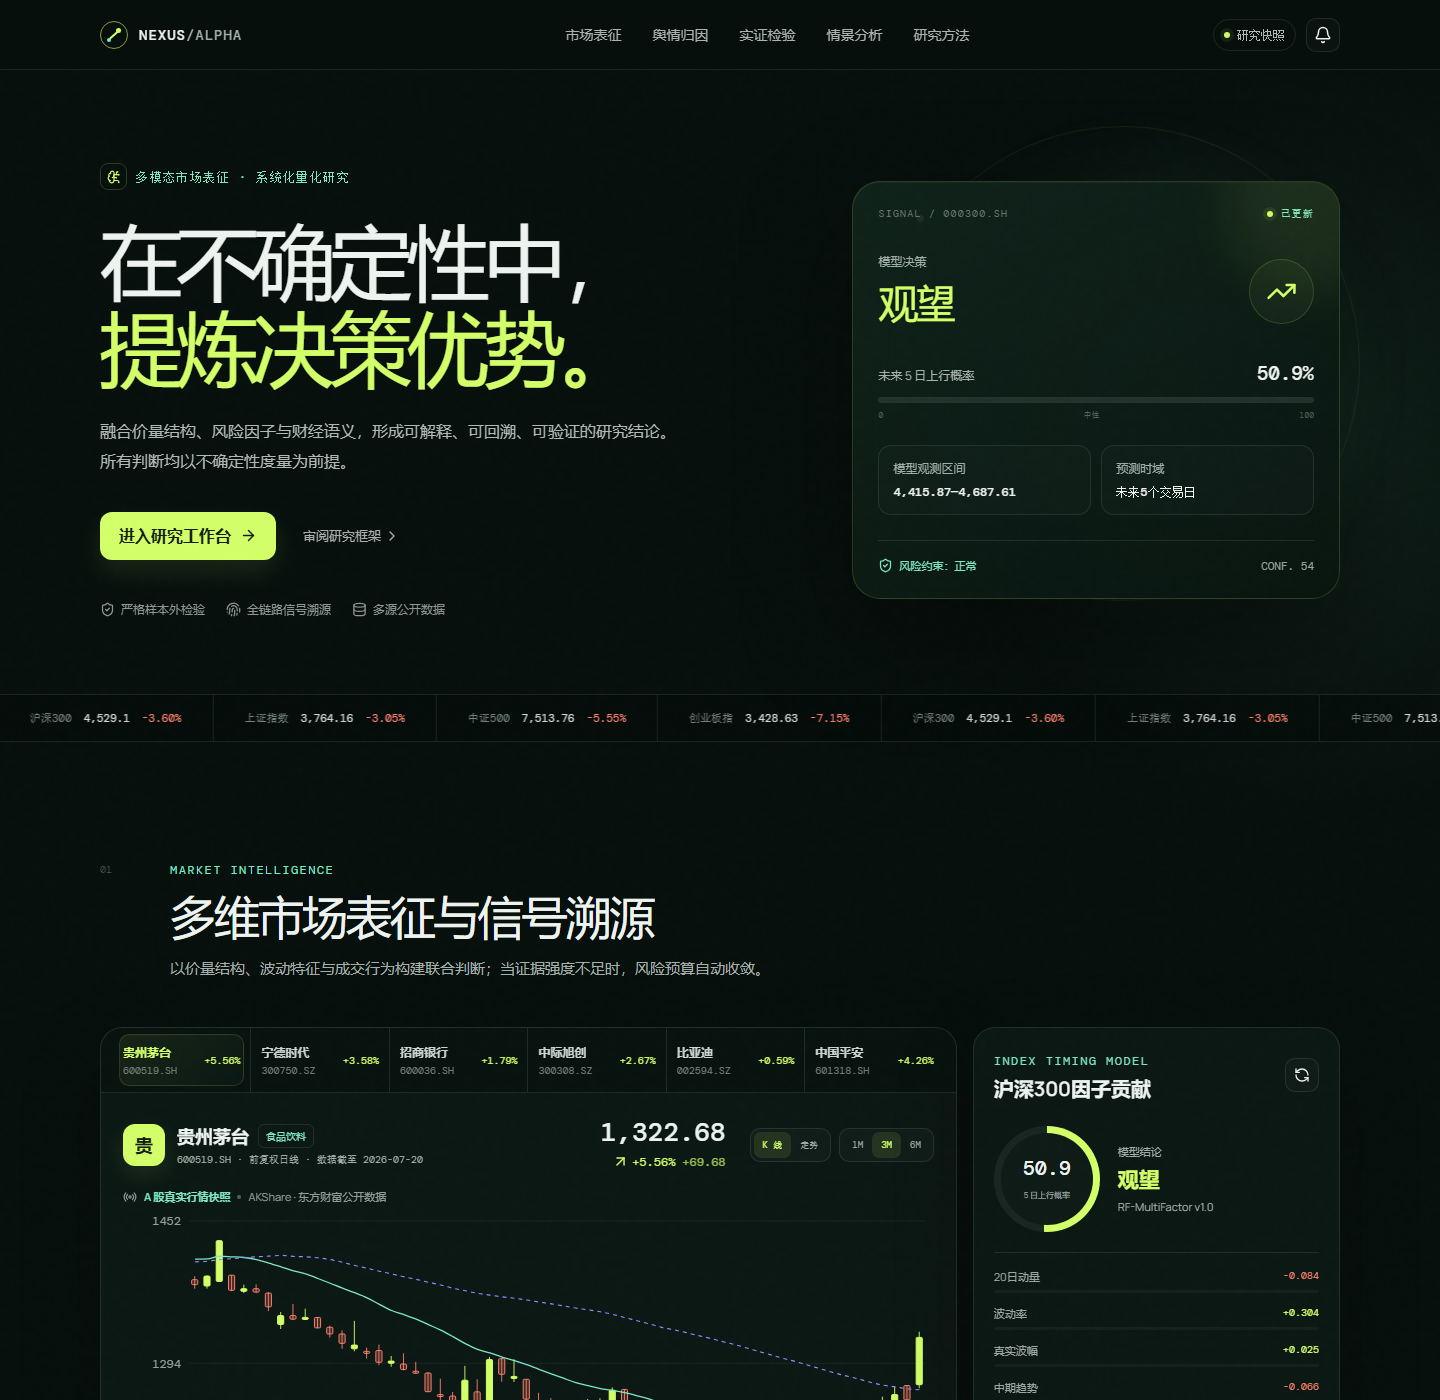
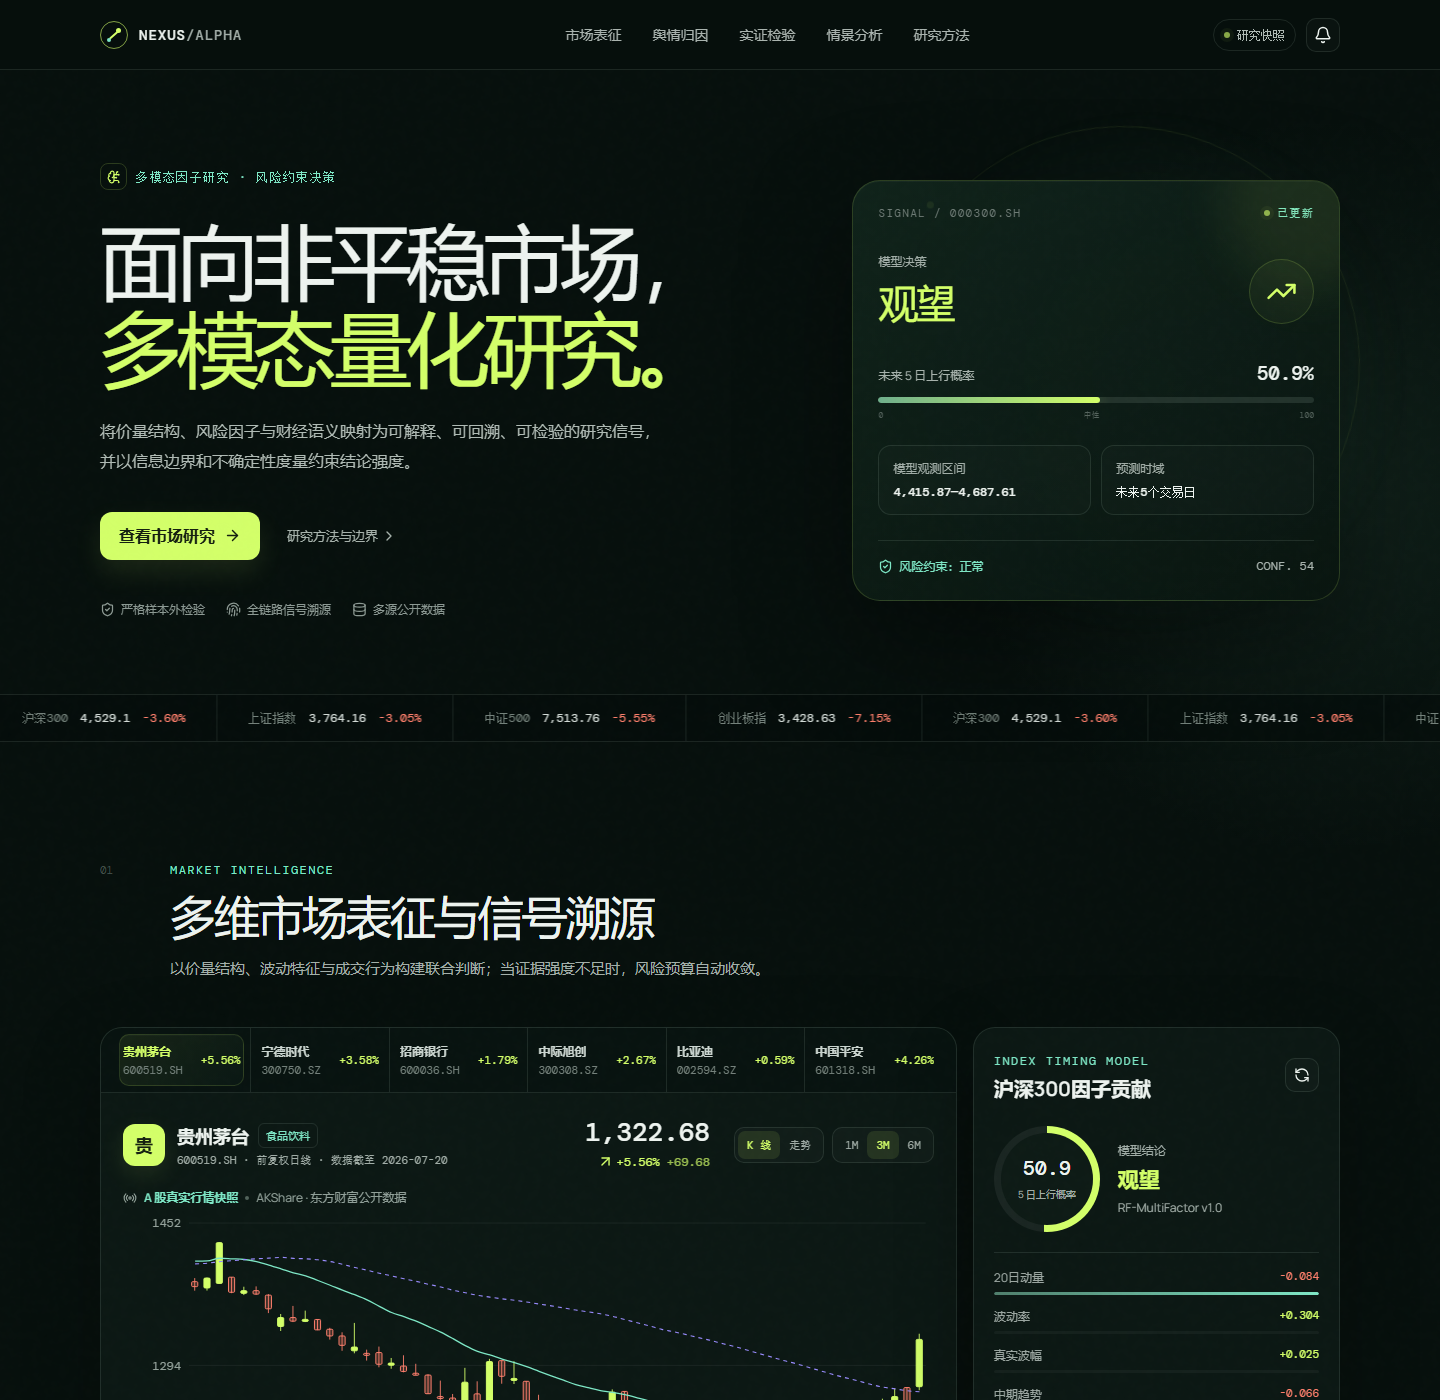
refactor: improve readability and research copy

diff --git a/src/styles.css b/src/styles.css
@@ -269,10 +269,10 @@ main { position: relative; z-index: 2; }
 .factor-item em { font-family: var(--mono); font-style: normal; font-size: 9px; }
 .factor-bar { height: 3px; border-radius: 9px; background: rgba(255,255,255,.04); margin-top: 6px; overflow: hidden; }
 .factor-bar i { height: 100%; display: block; background: linear-gradient(90deg, #4f7f6c, var(--mint)); border-radius: inherit; }
-.audit-note { display: flex; align-items: flex-start; gap: 9px; margin-top: 18px; padding: 11px; border-radius: 11px; color: #839089; background: rgba(126,231,198,.04); border: 1px solid rgba(126,231,198,.08); }
+.audit-note { display: flex; align-items: flex-start; gap: 12px; margin-top: 20px; padding: 15px 16px; border-radius: 14px; color: #98a59e; background: rgba(126,231,198,.04); border: 1px solid rgba(126,231,198,.1); }
 .audit-note svg { color: var(--mint); flex: 0 0 auto; margin-top: 1px; }
-.audit-note p { font-size: 9px; line-height: 1.55; margin: 0; }
-.audit-note strong { color: #aab5af; display: block; }
+.audit-note p { font-size: 9px; line-height: 1.7; margin: 0; }
+.audit-note strong { color: #c0cbc5; display: block; margin-bottom: 3px; }
 
 .metrics-grid { display: grid; grid-template-columns: repeat(4, 1fr); gap: 12px; margin-top: 12px; }
 .metric-card { position: relative; min-height: 142px; padding: 17px; border: 1px solid var(--line); border-radius: 17px; background: rgba(13,26,21,.75); overflow: hidden; }
@@ -429,28 +429,44 @@ footer { border-top: 1px solid var(--line); padding: 45px max(28px, calc((100vw 
 .eyebrow, .section-kicker, .mini-kicker { font-size: 12px; }
 .hero-copy > p { color: #b0bbb5; font-size: 16px; }
 .trust-row { color: #8d9a94; font-size: 12px; }
-.signal-topline, .pulse-label { font-size: 10px; }
-.signal-footer { color: #99a69f; font-size: 11px; }
-.ticker-item { font-size: 11px; }
+.signal-topline, .pulse-label { font-size: 11px; }
+.signal-footer { color: #aab5af; font-size: 12px; }
+.ticker-item { font-size: 12px; }
+.section-number { font-size: 11px; }
 .section-heading p { color: #a4b0aa; font-size: 15px; }
 .asset-line strong { font-size: 15px; }
-.asset-line small, .chart-legend, .chart-caption { font-size: 11px; }
+.asset-line small, .chart-legend, .chart-caption { font-size: 12px; }
+.stock-tabs button small, .stock-tabs button em, .stock-name-line span, .stock-identity p { font-size: 11px; }
+.real-data-banner, .stock-stats span { font-size: 12px; }
+.year-range small, .score-ring small { font-size: 10px; }
+.range-tabs button, .view-toggle button, .chart-tooltip > span, .chart-tooltip > div { font-size: 11px; }
 .panel-title-row h3, .sentiment-gauge h3 { font-size: 20px; }
-.factor-score > div:last-child span, .factor-score > div:last-child small, .factor-item > div:first-child { font-size: 11px; }
-.factor-item em, .audit-note p { font-size: 10px; }
+.factor-score > div:last-child span, .factor-score > div:last-child small, .factor-item > div:first-child { font-size: 12px; }
+.factor-item em { font-size: 11px; }
+.audit-note p { font-size: 13px; }
+.audit-note strong { font-size: 13px; }
 .metric-card > span { font-size: 12px; }
 .metric-card > strong { font-size: 23px; }
-.metric-card > small, .risk-gate small, .source-note { font-size: 10px; }
-.sentiment-dist span, .tag-row span { font-size: 9px; }
-.news-meta { font-size: 10px; }
-.news-item strong { color: #dce4e0; font-size: 13px; }
-.news-detail p, .news-detail > div, .news-detail a { font-size: 11px; }
-.backtest-head p, .result-row > span, .result-row > small, .honesty-bar p { font-size: 11px; }
+.metric-card > small, .risk-gate small, .source-note { font-size: 11px; }
+.risk-gate strong { font-size: 12px; }
+.sentiment-dist span, .tag-row span { font-size: 10px; }
+.news-meta, .score-badge { font-size: 11px; }
+.news-item strong { color: #dce4e0; font-size: 14px; }
+.news-detail p, .news-detail > div, .news-detail a { font-size: 12px; }
+.backtest-head p, .result-row > span, .result-row > small, .honesty-bar p { font-size: 12px; }
 .scenario-buttons button, .cost-control > div:first-child, .scenario-summary > p { font-size: 12px; }
-.scenario-summary > span { font-size: 10px; }
-.scenario-values small, .method-tags span, .method-bottom p, .secondary-button { font-size: 10px; }
-.footer-main > p, .footer-links a { font-size: 11px; }
-.disclaimer p, .disclaimer span { font-size: 10px; }
+.scenario-summary > span { font-size: 11px; }
+.scenario-values small, .method-tags span, .method-bottom p, .secondary-button { font-size: 11px; }
+.range-label { font-size: 10px !important; }
+.reality-tags span { font-size: 12px; }
+.reality-tags i, .discipline-label small { font-size: 10px; }
+.discipline-code, .discipline-checks .check-index { font-size: 11px; }
+.discipline-label strong { font-size: 14px; }
+.discipline-checks strong { font-size: 13px; }
+.discipline-checks p { color: #929f98; font-size: 12px; }
+.discipline-guard, .discipline-guard strong { font-size: 11px; }
+.footer-main > p, .footer-links a { font-size: 12px; }
+.disclaimer p, .disclaimer span { font-size: 11px; }
 
 @keyframes pulse { 0%,100% { opacity: 1; } 50% { opacity: .35; } }
 @keyframes orbit { to { transform: rotate(360deg); } }
@@ -526,7 +542,7 @@ footer { border-top: 1px solid var(--line); padding: 45px max(28px, calc((100vw 
   .hero, .section { width: calc(100% - 28px); }
   .hero { min-height: 0; padding-top: 55px; }
   .hero h1 { font-size: 48px; }
-  .hero-copy > p { font-size: 13px; }
+  .hero-copy > p { font-size: 14px; }
   .desktop-only { display: none; }
   .hero-actions { align-items: flex-start; flex-direction: column; gap: 16px; }
   .trust-row { flex-wrap: wrap; gap: 10px 16px; }
@@ -536,7 +552,7 @@ footer { border-top: 1px solid var(--line); padding: 45px max(28px, calc((100vw 
   .signal-stats { grid-template-columns: 1fr; }
   .section-heading { grid-template-columns: 32px 1fr; gap: 8px; }
   .section-heading h2 { font-size: 31px; }
-  .section-heading p { font-size: 11px; }
+  .section-heading p { font-size: 13px; }
   .stock-workbench { padding-inline: 14px; }
   .stock-tabs { grid-template-columns: repeat(2, 1fr); margin-inline: -14px; padding-inline: 7px; }
   .stock-tabs button { min-height: 58px; }
@@ -566,7 +582,7 @@ footer { border-top: 1px solid var(--line); padding: 45px max(28px, calc((100vw 
   .sentiment-scale { display: flex; }
   .news-panel { padding: 18px; }
   .news-item { padding-inline: 2px; }
-  .news-item strong { font-size: 12px; }
+  .news-item strong { font-size: 13px; }
   .news-detail p { margin-right: 0; padding-bottom: 20px; }
   .backtest-card { padding: 17px; }
   .backtest-head { align-items: flex-start; flex-direction: column; gap: 14px; }

diff --git a/src/App.tsx b/src/App.tsx
@@ -130,17 +130,17 @@ function Hero() {
       <div className="hero-orbit orbit-two" />
       <div className="hero-copy">
         <motion.div className="eyebrow" initial={false} animate={{ opacity: 1, y: 0 }}>
-          <span><BrainCircuit size={14} /></span> 多模态市场表征 · 系统化量化研究
+          <span><BrainCircuit size={14} /></span> 多模态因子研究 · 风险约束决策
         </motion.div>
         <motion.h1 initial={false} animate={{ opacity: 1, y: 0 }} transition={{ delay: 0.08 }}>
-          在不确定性中，<br /><span>提炼决策优势。</span>
+          面向非平稳市场，<br /><span>多模态量化研究。</span>
         </motion.h1>
         <motion.p initial={false} animate={{ opacity: 1, y: 0 }} transition={{ delay: 0.16 }}>
-          融合价量结构、风险因子与财经语义，形成可解释、可回溯、可验证的研究结论。<br className="desktop-only" />所有判断均以不确定性度量为前提。
+          将价量结构、风险因子与财经语义映射为可解释、可回溯、可检验的研究信号，<br className="desktop-only" />并以信息边界和不确定性度量约束结论强度。
         </motion.p>
         <motion.div className="hero-actions" initial={false} animate={{ opacity: 1 }} transition={{ delay: 0.25 }}>
-          <a className="primary-button" href="#market">进入研究工作台 <ArrowRight size={17} /></a>
-          <a className="text-button" href="#method">审阅研究框架 <ChevronRight size={16} /></a>
+          <a className="primary-button" href="#market">查看市场研究 <ArrowRight size={17} /></a>
+          <a className="text-button" href="#method">研究方法与边界 <ChevronRight size={16} /></a>
         </motion.div>
         <div className="trust-row">
           <span><ShieldCheck size={15} /> 严格样本外检验</span>
@@ -390,7 +390,7 @@ function FactorPanel() {
           </div>
         ))}
       </div>
-      <div className="audit-note"><Fingerprint size={15} /><p><strong>模型解释口径</strong>贡献度基于随机森林不纯度下降计算；方向值为当前原始因子读数，不构成独立交易依据。</p></div>
+      <div className="audit-note"><Fingerprint size={17} /><p><strong>因子贡献说明</strong>贡献度采用随机森林的平均不纯度下降估计；方向值对应最新观测期的标准化因子暴露。两者用于解释模型决策来源，不应视为独立的收益预测。</p></div>
     </div>
   )
 }
@@ -589,8 +589,8 @@ function MethodSection() {
   const disciplines = [
     {
       code: '01', eyebrow: 'DATA INTEGRITY', title: '数据完整性与时间因果', icon: Database,
-      thesis: '任何收益曲线，都必须先通过信息可得性与时间边界审计。',
-      guardrail: '信息时点优先于模型精度',
+      thesis: '研究结论成立的前提，是所有输入均满足当时点可得性并通过时间边界审计。',
+      guardrail: '无法确认可得时点的特征不得进入训练与回测',
       items: [
         { title: '多源时钟统一', text: 'K 线、盘口、资金流、宏观指标、公告与舆情统一时区；复权、停牌、涨跌停及跳空事件显式标记。' },
         { title: '隔绝未来泄露', text: 't 时点特征仅使用当时已公开信息；特征窗口、预测时点、成交时点与标签区间相互隔离。' },
@@ -600,8 +600,8 @@ function MethodSection() {
     },
     {
       code: '02', eyebrow: 'HYBRID INTELLIGENCE', title: '轻量化多模型融合', icon: BrainCircuit,
-      thesis: '结构化时序模型负责定量证据，轻量语义模型负责事件增量。',
-      guardrail: 'INT4 / INT8 · 毫秒级推理 · SHAP 归因',
+      thesis: '结构化模型刻画价量与资金行为，轻量语义模型补充经事实核验的事件信息。',
+      guardrail: '模型压缩、推理延迟与归因稳定性均需独立验证',
       items: [
         { title: '结构化时序引擎', text: 'LightGBM、XGBoost 与轻量时序网络刻画价量、盘口和资金行为，保留低延迟与稳定解释能力。' },
         { title: '财经语义引擎', text: '量化小模型提取新闻、公告与政策中的事件方向、可信度、影响等级及有效时域。' },
@@ -611,8 +611,8 @@ function MethodSection() {
     },
     {
       code: '03', eyebrow: 'OUT-OF-SAMPLE FIRST', title: '时序训练与样本外验证', icon: FlaskConical,
-      thesis: '研究目标不是解释已发生的历史，而是约束对未知未来的判断。',
-      guardrail: '禁止随机切分 · Walk-Forward 验证',
+      thesis: '模型选择与参数评估仅依据历史可用样本，最终结论以独立样本外表现为准。',
+      guardrail: '训练、验证与测试必须严格按时间顺序推进',
       items: [
         { title: '滚动时序验证', text: '训练、验证与测试严格按时间推进，模拟模型定期重训及逐日增量获取数据的真实过程。' },
         { title: '多层抗过拟合', text: '限制因子数量与参数自由度，结合树模型正则、Dropout 及受限微调抑制历史记忆。' },
@@ -622,8 +622,8 @@ function MethodSection() {
     },
     {
       code: '04', eyebrow: 'EXECUTION REALITY', title: '现实交易仿真与线上闭环', icon: Zap,
-      thesis: '预测只有经过执行约束、成本核算与仓位映射后，才构成可交易信号。',
-      guardrail: '次日执行 · 全成本核算 · 漂移监控',
+      thesis: '方向概率经成交约束、成本核算与仓位映射后，方可转换为组合层决策变量。',
+      guardrail: '次日成交、显式成本与容量限制纳入统一回测口径',
       items: [
         { title: '高保真成交仿真', text: '统一计入手续费、滑点、冲击成本、涨跌停、停牌及流动性不足造成的成交限制。' },
         { title: '信号到仓位映射', text: '设置单票上限、波动率降仓与多模态共振条件，禁止将方向预测直接等价为满仓指令。' },
@@ -633,8 +633,8 @@ function MethodSection() {
     },
     {
       code: '05', eyebrow: 'RISK OVERRIDES ALPHA', title: '风险优先与事实约束', icon: ShieldCheck,
-      thesis: '模型负责生成证据，风控拥有最终否决权；长期存活优先于短期命中。',
-      guardrail: 'Risk Gate 始终高于 Model Signal',
+      thesis: '任何方向性模型输出均不得绕过事实核验、风险预算与组合限额。',
+      guardrail: '风险阈值触发结果覆盖方向性模型输出',
       items: [
         { title: '语义事实校验', text: '对新闻来源、政策原文与事件主体进行可信度评分及交叉验证，抑制幻觉与误读触发交易。' },
         { title: '动态风险闸门', text: '净值回撤、行业集中度、隔夜风险及波动率触及阈值时，系统强制减仓或停止新增敞口。' },
@@ -649,11 +649,11 @@ function MethodSection() {
 
   return (
     <section className="section method-section" id="method">
-      <SectionHeading number="05" kicker="RESEARCH DISCIPLINE" title="先约束研究，再讨论预测" text="金融市场具有非平稳、高噪声、肥尾与对抗博弈属性。机器学习与大模型只能在严格的数据、验证、执行和风险边界内生成可用证据。" />
+      <SectionHeading number="05" kicker="RESEARCH DISCIPLINE" title="面向非平稳市场的五层研究约束" text="金融市场同时具有高噪声、肥尾、交易摩擦与对抗博弈属性。模型结论必须置于数据因果、样本外验证、执行可行性和组合风险的共同约束下。" />
       <motion.div className="market-reality" initial={false} whileInView={{ opacity: 1, y: 0 }} viewport={{ once: true }}>
         <div className="reality-statement">
           <span className="mini-kicker">PRIOR ASSUMPTION / 市场先验</span>
-          <h3>模型不是答案，<em>而是约束条件下的证据生成器。</em></h3>
+          <h3>所有模型结论均应同时满足<em>信息可得性、样本外有效性与交易可执行性。</em></h3>
         </div>
         <div className="reality-tags" aria-label="金融市场底层约束">
           {['非平稳', '高噪声', '肥尾分布', '交易摩擦', '信息边界', '对抗博弈'].map((label, index) => <span key={label}><i className="mono">0{index + 1}</i>{label}</span>)}
@@ -707,7 +707,7 @@ function MethodSection() {
                   </motion.div>
                 ))}
               </div>
-              <div className="discipline-guard"><ShieldCheck size={17} /><span>系统硬约束</span><strong>{active.guardrail}</strong></div>
+              <div className="discipline-guard"><ShieldCheck size={17} /><span>约束判定规则</span><strong>{active.guardrail}</strong></div>
             </motion.div>
           </AnimatePresence>
         </div>

diff --git a/README.md b/README.md
@@ -27,7 +27,7 @@
 
 ## 五层研究约束
 
-> 模型不是答案，而是约束条件下的证据生成器。
+> 模型结论仅在信息可得性、样本外有效性与交易可执行性同时成立时具有研究意义。
 
 金融市场具有非平稳、高噪声、肥尾、交易摩擦、信息边界与对抗博弈属性。NEXUS Alpha 因此将研究流程按优先级组织为五层约束，并明确区分当前能力与工程演进目标：
 
@@ -39,7 +39,7 @@
 | 04 | 现实交易仿真与线上闭环 | 次日执行、10bp 单边成本、长仓/现金状态机 | 模拟滑点、冲击成本、涨跌停、停牌、容量及纸面交易反馈 |
 | 05 | 风险优先与事实约束 | 置信阈值、舆情风险闸门、波动率与市场敞口约束 | 多源事实校验、净值级强制风控、漂移监控与因子生命周期治理 |
 
-系统坚持三条不可妥协的边界：禁止随机划分时间序列，禁止使用当时不可获得的信息，禁止将方向概率直接等价为交易指令。当前版本保留未形成稳定预测优势的真实结果，高级实盘能力列为可验证的演进路线，而不是既成能力。
+系统采用三项基础判定规则：时间序列不得随机切分，当时不可获得的信息不得进入特征，方向概率不得未经成本和风险约束直接转换为交易指令。当前版本保留未形成稳定预测优势的真实结果；高级实盘能力被列为需要独立验证的工程路线，而非当前成果。
 
 ![五层研究约束体系](docs/research-discipline-preview.png)
 
@@ -103,4 +103,4 @@ python -m pytest backend/tests -q
 
 ## 重要说明
 
-本项目用于课程实践和研究展示，不构成投资建议。回测结果不代表未来收益；公开数据可能存在延迟、缺失和修订。项目刻意保留当前样本外 AUC 低于 0.5 的真实结果，用来展示“模型没有优势时不交易”比伪造漂亮指标更重要。
+本项目用于课程实践和研究展示，不构成投资建议。回测结果不代表未来收益；公开数据可能存在延迟、缺失和修订。项目完整披露当前样本外 AUC 低于 0.5 的结果，并在统计证据不足时维持观望，以避免将偶然的样本表现解释为稳定预测能力。

diff --git a/docs/PROJECT_REPORT.md b/docs/PROJECT_REPORT.md
@@ -172,7 +172,7 @@ flowchart LR
 
 ### 5.3 产品结论
 
-当前正确动作是“观望”，而不是把 50.94% 的上涨概率包装成买入机会。这个结果本身验证了产品设计：系统能够在模型优势不足时主动拒绝制造确定性。现阶段更适合作为研究筛选和风险监控工具，不适合直接连接自动实盘。
+当前信号应判定为“观望”。50.94% 的上行概率不足以支持方向性仓位，且样本外 AUC 未呈现稳定预测信息。该结果说明系统能够在统计证据不足时保持受限敞口。现阶段产品更适合作为研究筛选与风险监控工具，不宜直接连接自动实盘。
 
 ## 六、局限与改进路线
 